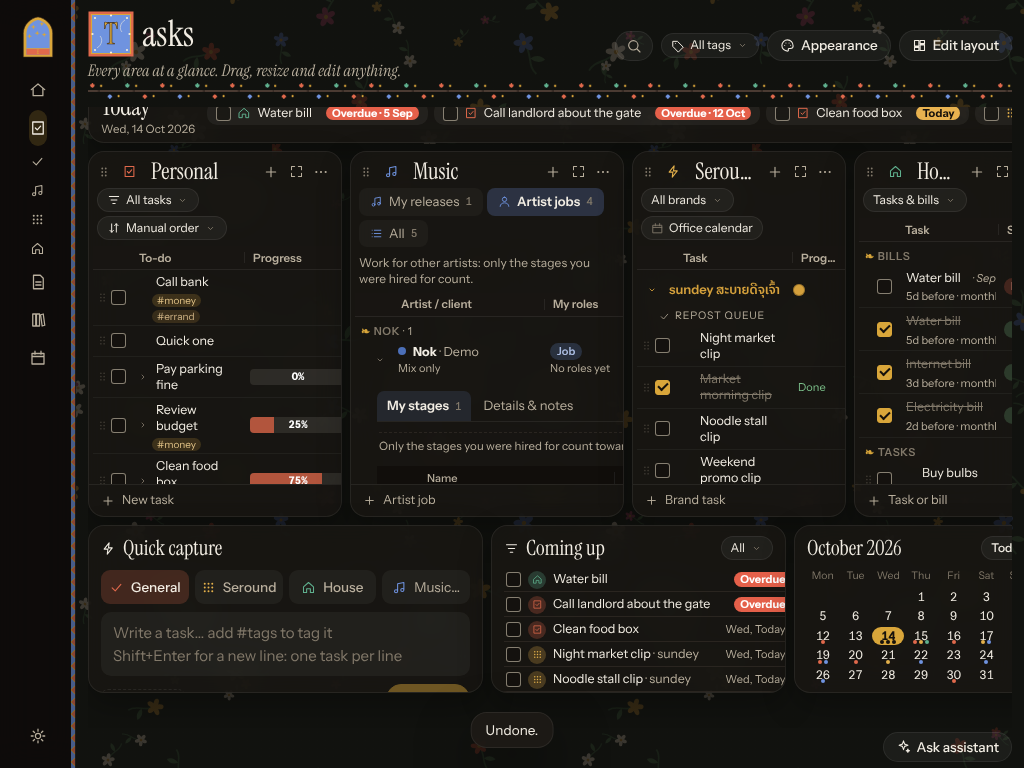
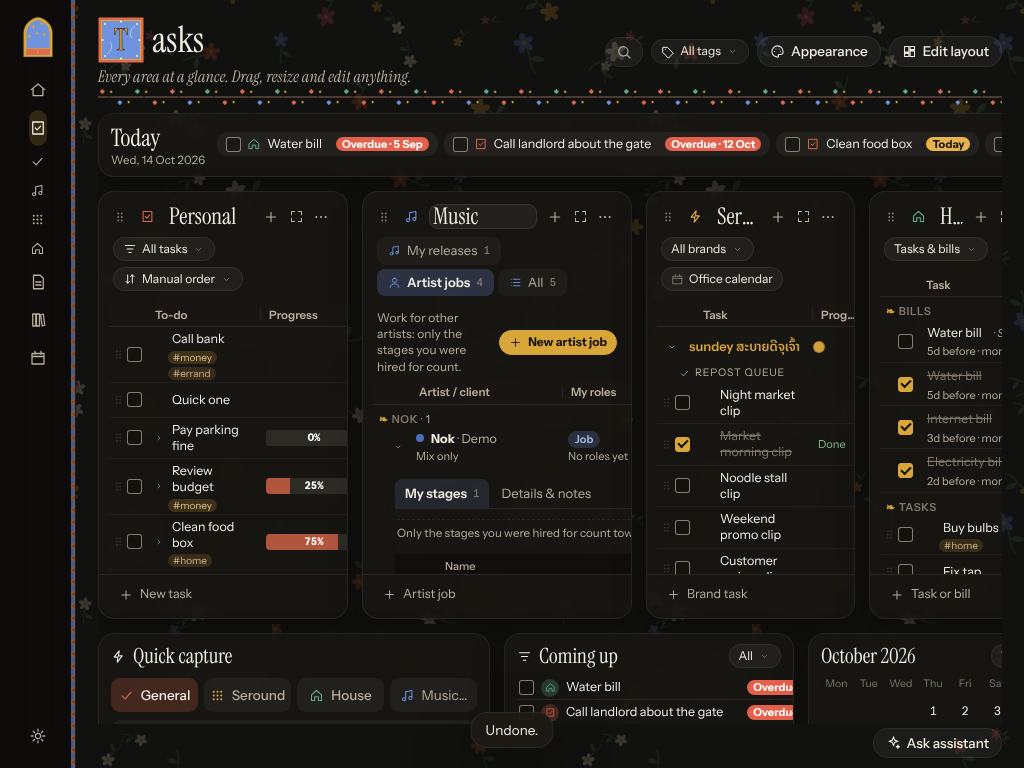
Release dashboard, roomier board, window-style panel resizing
- My releases is now a dashboard of cards: title, countdown to release, the step you're on and its due date, what's next, and a segmented step bar. Click a card to open its steps below; New release button up top.
- Tasks board: wider gaps and more padding inside panels; taller rows.
- Panels resize from any edge or corner with big hit zones (the library's own handle styles were overriding ours).
- Quick capture text matches the rest of the UI.

Claude-Session: https://claude.ai/code/session_016WKLQPuGqaCrfQHNoqNZZi

diff --git a/frankk-app/src/panels/MusicPanel.tsx b/frankk-app/src/panels/MusicPanel.tsx
@@ -8,7 +8,7 @@ import { Modal } from '../components/Modal';
 import { ColumnsMenu } from '../components/ColumnsMenu';
 import { Table, ResizeHandle, nextSort, type SortState } from '../components/TaskTable';
 import { Editable, MiniSelect } from '../components/Editable';
-import { ReleaseStepper } from '../components/Stepper';
+import { ReleaseStepper, mainSteps } from '../components/Stepper';
 import { SortableList } from '../components/SortableList';
 import { useContextMenu } from '../components/ContextMenu';
 import { TagChips, TagPicker } from '../components/Tags';
@@ -17,7 +17,7 @@ import { useUi } from '../ui';
 import { useColumns, type ColDef } from '../hooks/useColumns';
 import { usePersistentState } from '../hooks/usePersistentState';
 import { nextProjectDate, projectProgress, stageComplete, stageUnits } from '../lib/progress';
-import { relLabel } from '../lib/dates';
+import { diffDays, relLabel, shortDate } from '../lib/dates';
 import { PIGMENTS, RELEASE_STEPS, SIDE_STAGES, STAGE_LIBRARY, type MusicProject, type Stage } from '../data/types';
 import { newId } from '../data/fixtures';
 
@@ -108,11 +108,17 @@ export function MusicPanel({ focused }: { focused: boolean }) {
         </div>
       }
       footer={<button className="foot-add" onClick={() => setProjectDialog(newKind)}><Icon name="plus" size={13} /> {tab === 'artist-job' ? 'Artist job' : tab === 'own-release' ? 'Release' : 'Project or artist job'}</button>}>
-      {tab !== 'all' && <p className="music-hint">{TABS.find((t) => t.id === tab)!.hint}</p>}
+      {tab === 'own-release' ? (
+        <ReleaseBoard list={visible.filter((p) => p.kind === 'own-release')} open={open} onToggle={toggle} />
+      ) : (<>
+      <div className="music-bar">
+        <p className="music-hint">{TABS.find((t) => t.id === tab)!.hint}</p>
+        <button className="btn primary small" onClick={() => setProjectDialog(newKind)}><Icon name="plus" size={13} /> {newLabel}</button>
+      </div>
       <Table cols={cols} label="Music projects" sort={prefs.sort} onSort={(col) => setPrefs((p) => ({ ...p, sort: nextSort(p.sort, col) }))}>
         {groups.length === 0 && (
           <div className="empty">
-            {tab === 'artist-job' ? 'No artist jobs yet.' : tab === 'own-release' ? 'No releases yet.' : 'Nothing here yet.'}{' '}
+            {tab === 'artist-job' ? 'No artist jobs yet.' : 'Nothing here yet.'}{' '}
             <button className="link-btn" onClick={() => setProjectDialog(newKind)}>{newLabel}</button>
           </div>
         )}
@@ -123,7 +129,92 @@ export function MusicPanel({ focused }: { focused: boolean }) {
           </div>
         ))}
       </Table>
+      </>)}
     </Panel>
+  );
+}
+
+/* ---------- My releases: a dashboard of what's coming out and where each one stands ---------- */
+
+function ReleaseBoard({ list, open, onToggle }: { list: MusicProject[]; open: Set<string>; onToggle: (id: string) => void }) {
+  const { today } = useStore();
+  const { setProjectDialog } = useUi();
+  const finished = (p: MusicProject) => mainSteps(p).length > 0 && mainSteps(p).every(stageComplete);
+  const byDate = (a: MusicProject, b: MusicProject) => (a.targetRelease ?? '9999').localeCompare(b.targetRelease ?? '9999');
+  const upcoming = list.filter((p) => !finished(p)).sort(byDate);
+  const done = list.filter(finished).sort(byDate);
+  return (
+    <div className="rel-board">
+      <div className="rel-top">
+        <div>
+          <h4>Upcoming releases</h4>
+          <p className="muted">{upcoming.length ? `${upcoming.length} in progress${done.length ? ` · ${done.length} finished` : ''}` : 'Nothing in progress.'}</p>
+        </div>
+        <button className="btn primary" onClick={() => setProjectDialog('own-release')}><Icon name="plus" size={14} /> New release</button>
+      </div>
+      {list.length === 0 && (
+        <button className="rel-empty" onClick={() => setProjectDialog('own-release')}><Icon name="music" size={22} /><b>Start your first release</b><span>Single, EP or album: it gets a step bar from Concept to Art.</span></button>
+      )}
+      <div className="rel-grid">
+        {[...upcoming, ...done].map((p) => <ReleaseCard key={p.id} p={p} today={today} open={open.has(p.id)} onToggle={() => onToggle(p.id)} finished={finished(p)} />)}
+      </div>
+    </div>
+  );
+}
+
+function ReleaseCard({ p, today, open, onToggle, finished }: { p: MusicProject; today: string; open: boolean; onToggle: () => void; finished: boolean }) {
+  const { dispatch } = useStore();
+  const { openNote, say } = useUi();
+  const menu = useContextMenu();
+  const steps = mainSteps(p);
+  const doneN = steps.filter(stageComplete).length;
+  const idx = steps.findIndex((s) => !stageComplete(s));
+  const now = idx >= 0 ? steps[idx] : undefined;
+  const then = idx >= 0 ? steps[idx + 1] : undefined;
+  const days = p.targetRelease ? diffDays(p.targetRelease, today) : undefined;
+  const fmt = RELEASE_TYPES.find((r) => r.id === p.releaseType)?.label ?? 'Release';
+  const late = now?.end && now.end < today;
+  return (
+    <div className="rel-wrap" data-project={p.id}>
+      <article className={`rel-card${open ? ' open' : ''}${finished ? ' finished' : ''}`} style={{ '--row': p.color ?? 'var(--music)' } as React.CSSProperties}
+        onContextMenu={(e) => menu(e, [
+          { label: open ? 'Close' : 'Open', icon: 'chevronR', onClick: onToggle },
+          { label: 'Open in Obsidian', icon: 'external', onClick: () => openNote(p.notePath) },
+          { label: 'Delete release', icon: 'trash', danger: true, sep: true, onClick: () => { dispatch({ type: 'project/remove', projectId: p.id }); say(`Deleted “${p.title}”.`, true); } },
+        ])}>
+        <button className="rel-hit" aria-expanded={open} aria-label={`${open ? 'Close' : 'Open'} ${p.artist} ${p.title}`} onClick={onToggle} />
+        <header className="rel-head">
+          <span className="rel-dot" />
+          <div className="rel-name">
+            <h5>{p.title}</h5>
+            <span>{p.artist} · {fmt}{p.label ? ` · ${p.label}` : ''}</span>
+          </div>
+          <div className="rel-count">
+            {finished ? <b>Done</b> : days === undefined ? <small>No release date</small>
+              : days < 0 ? <><b className="late">{-days}d</b><small>past {shortDate(p.targetRelease!, today)}</small></>
+              : <><b>{days === 0 ? 'Today' : `${days}d`}</b><small>out {shortDate(p.targetRelease!, today)}</small></>}
+          </div>
+        </header>
+        <div className="rel-steps" role="img" aria-label={`Step ${Math.min(doneN + 1, steps.length)} of ${steps.length}`}>
+          {steps.map((s, i) => {
+            const u = stageUnits(s);
+            const fill = stageComplete(s) ? 1 : u.total ? u.done / u.total : 0;
+            return <i key={s.id} title={s.name} className={stageComplete(s) ? 'done' : i === idx ? 'now' : ''}><b style={{ width: `${fill * 100}%` }} /></i>;
+          })}
+        </div>
+        <div className="rel-now">
+          {now ? (
+            <>
+              <span className="rel-label">Now</span><strong>{now.name}</strong>
+              {now.end && <span className={late ? 'late' : 'muted'}>{late ? 'was due' : 'due'} {relLabel(now.end, today)}</span>}
+              <span className="rel-of">{doneN}/{steps.length}</span>
+            </>
+          ) : <span className="muted">All release steps done.</span>}
+        </div>
+        {then && <div className="rel-then"><span className="rel-label">Then</span>{then.name}{then.end && <span className="muted"> · {relLabel(then.end, today)}</span>}</div>}
+      </article>
+      {open && <div className="rel-detail"><ProjectDetail p={p} /></div>}
+    </div>
   );
 }
 

diff --git a/frankk-app/src/styles.css b/frankk-app/src/styles.css
@@ -1232,3 +1232,69 @@ fieldset { border: 1px solid var(--line); border-radius: var(--radius); padding:
 /* Description stretches to fill spare room, so Progress and Date sit at the far right */
 .st-grid { grid-template-columns: 16px 20px 20px var(--st-name, 170px) minmax(var(--st-desc, 260px), 1fr) var(--st-progress, 90px) var(--st-date, 112px); }
 .st-head .st-desc { font-size: inherit; color: inherit; }
+
+/* ── Iteration 13: My releases dashboard ── */
+.music-bar { display: flex; align-items: center; gap: 10px; justify-content: space-between; margin: 2px 4px 6px; }
+.music-bar .music-hint { margin: 0; }
+.rel-board { display: grid; gap: 12px; padding: 4px 4px 8px; }
+.rel-top { display: flex; align-items: center; justify-content: space-between; gap: 12px; }
+.rel-top h4 { font: 500 22px/1.1 var(--font-display); margin: 0; }
+.rel-top p { margin: 2px 0 0; font-size: 12.5px; }
+.rel-grid { display: grid; grid-template-columns: repeat(auto-fill, minmax(300px, 1fr)); gap: 10px; align-items: start; }
+.rel-wrap { display: contents; }
+.rel-detail { grid-column: 1 / -1; border-radius: 12px; padding: 4px 12px 10px; background: color-mix(in srgb, var(--text) 3%, transparent); }
+.rel-card { position: relative; display: grid; gap: 10px; padding: 14px 16px; border-radius: 12px; cursor: pointer;
+  background: color-mix(in srgb, var(--row) 9%, color-mix(in srgb, var(--text) 4%, transparent)); transition: background .12s; }
+.rel-card:hover { background: color-mix(in srgb, var(--row) 15%, color-mix(in srgb, var(--text) 5%, transparent)); }
+.rel-card.open { background: color-mix(in srgb, var(--row) 20%, color-mix(in srgb, var(--text) 5%, transparent)); }
+.rel-card.finished { opacity: .7; }
+.rel-hit { position: absolute; inset: 0; border-radius: inherit; z-index: 1; }
+.rel-hit:focus-visible { outline: 2px solid color-mix(in srgb, var(--text) 40%, transparent); outline-offset: 2px; }
+.rel-head { display: flex; align-items: flex-start; gap: 10px; }
+.rel-dot { width: 10px; height: 10px; border-radius: 50%; background: var(--row); margin-top: 9px; flex: none; }
+.rel-name { flex: 1; min-width: 0; }
+.rel-name h5 { margin: 0; font: 500 24px/1.1 var(--font-display); white-space: nowrap; overflow: hidden; text-overflow: ellipsis; }
+.rel-name span { font-size: 12.5px; color: var(--muted); }
+.rel-count { display: grid; justify-items: end; line-height: 1.1; flex: none; }
+.rel-count b { font: 600 22px var(--font-body); font-variant-numeric: tabular-nums; }
+.rel-count small { font-size: 11.5px; color: var(--muted); }
+.rel-count .late, .rel-now .late { color: #e0705a; }
+.rel-steps { display: flex; gap: 4px; }
+.rel-steps i { flex: 1; height: 8px; border-radius: 4px; background: color-mix(in srgb, var(--text) 10%, transparent); overflow: hidden; }
+.rel-steps i b { display: block; height: 100%; background: var(--row); opacity: .55; }
+.rel-steps i.done b { opacity: 1; }
+.rel-steps i.now { box-shadow: none; background: color-mix(in srgb, var(--row) 22%, transparent); }
+.rel-now, .rel-then { display: flex; align-items: baseline; gap: 8px; font-size: 13px; min-width: 0; }
+.rel-now strong { font-size: 15px; }
+.rel-then { color: var(--muted); font-size: 12.5px; }
+.rel-label { font-size: 10.5px; letter-spacing: .08em; text-transform: uppercase; color: var(--faint); width: 34px; flex: none; }
+.rel-of { margin-left: auto; font-size: 12px; color: var(--muted); font-variant-numeric: tabular-nums; }
+.rel-empty { display: grid; justify-items: center; gap: 4px; padding: 28px; border-radius: 12px; color: var(--muted); background: color-mix(in srgb, var(--text) 4%, transparent); }
+.rel-empty b { color: var(--text); font-size: 15px; }
+.rel-empty:hover { background: color-mix(in srgb, var(--text) 7%, transparent); }
+[data-style='medieval'] :is(.rel-card, .rel-detail, .rel-empty) { border-radius: 0; }
+
+/* ── Iteration 14: roomier Tasks board, window-style resizing, quieter capture text ── */
+.home { padding: 16px 22px 8px; }
+:is([data-style='gilded'], [data-style='modern']) .panel-head { padding: 12px 14px 6px 12px; gap: 6px; }
+:is([data-style='gilded'], [data-style='modern']) .panel-toolbar { padding: 2px 14px 10px; gap: 6px; }
+:is([data-style='gilded'], [data-style='modern']) .panel-body { padding: 2px 10px 8px; }
+:is([data-style='gilded'], [data-style='modern']) .panel-foot { padding: 6px 14px 10px; }
+:is([data-style='gilded'], [data-style='modern']) .trow:not(.thead) { min-height: 34px; }
+
+/* Resize from any edge or corner, like a window. Hit zones straddle the edge; nothing is drawn until you drag. */
+.react-grid-item > .react-resizable-handle { position: absolute !important; margin: 0 !important; transform: none !important; background: none !important; z-index: 7 !important; }
+.react-grid-item > .react-resizable-handle-n, .react-grid-item > .react-resizable-handle-s { left: 16px !important; right: 16px !important; width: auto !important; height: 12px !important; cursor: ns-resize !important; }
+.react-grid-item > .react-resizable-handle-n { top: -7px !important; bottom: auto !important; } .react-grid-item > .react-resizable-handle-s { bottom: -7px !important; top: auto !important; }
+.react-grid-item > .react-resizable-handle-e, .react-grid-item > .react-resizable-handle-w { top: 16px !important; bottom: 16px !important; height: auto !important; width: 12px !important; cursor: ew-resize !important; }
+.react-grid-item > .react-resizable-handle-e { right: -7px !important; left: auto !important; } .react-grid-item > .react-resizable-handle-w { left: -7px !important; right: auto !important; }
+.react-grid-item > :is(.react-resizable-handle-ne, .react-resizable-handle-nw, .react-resizable-handle-se, .react-resizable-handle-sw) { width: 22px !important; height: 22px !important; }
+.react-grid-item > .react-resizable-handle-ne { top: -7px !important; right: -7px !important; left: auto !important; bottom: auto !important; cursor: nesw-resize !important; }
+.react-grid-item > .react-resizable-handle-nw { top: -7px !important; left: -7px !important; right: auto !important; bottom: auto !important; cursor: nwse-resize !important; }
+.react-grid-item > .react-resizable-handle-se { bottom: -7px !important; right: -7px !important; left: auto !important; top: auto !important; cursor: nwse-resize !important; }
+.react-grid-item > .react-resizable-handle-sw { bottom: -7px !important; left: -7px !important; right: auto !important; top: auto !important; cursor: nesw-resize !important; }
+.react-grid-item.resizing { z-index: 20; }
+.react-grid-placeholder { background: color-mix(in srgb, var(--text) 10%, transparent) !important; border-radius: 12px; opacity: 1 !important; }
+body:has(.react-grid-item.resizing) { user-select: none; }
+
+.qc-write textarea { font: 400 13.5px/1.5 var(--font-body); padding: 8px 10px; }

diff --git a/frankk-app/src/App.tsx b/frankk-app/src/App.tsx
@@ -171,7 +171,7 @@ function TasksBoard({ theme, setTheme }: { theme: ThemePrefs; setTheme: (t: Them
             {(close) => (
               <div className="pop-form">
                 <strong>Layout</strong>
-                <p className="menu-note">Drag a panel’s dotted grip to move it. Drag an edge or corner to resize it.</p>
+                <p className="menu-note">Drag a panel’s dotted grip to move it. Drag any edge or corner to resize it, like a window.</p>
                 {WIDGETS.filter((w) => w.secondary).map((w) => (
                   <label key={w.id} className="menu-check"><input type="checkbox" checked={!saved.hidden.includes(w.id)} onChange={() => toggleWidget(w.id)} />{w.label}</label>
                 ))}
@@ -193,7 +193,7 @@ function TasksBoard({ theme, setTheme }: { theme: ThemePrefs; setTheme: (t: Them
                 layout={visible}
                 gridConfig={{ cols: COLS, rowHeight, margin: MARGIN, containerPadding: [0, 0] }}
                 dragConfig={{ enabled: !touch, handle: '.panel-grip', cancel: 'input,select,textarea,button,a,.no-drag' }}
-                resizeConfig={{ enabled: true, handles: ['e', 'w', 's', 'se', 'sw'] }}
+                resizeConfig={{ enabled: true, handles: ['n', 'e', 's', 'w', 'ne', 'nw', 'se', 'sw'] }}
                 compactor={dragging ? floatingCompactor : verticalCompactor}
                 onDragStart={() => { before.current = visible.map((l) => ({ ...l })); setDragging(true); }}
                 onDragStop={(_l, _old, item) => {

diff --git a/frankk-app/src/pages/HomePage.tsx b/frankk-app/src/pages/HomePage.tsx
@@ -59,7 +59,7 @@ export function HomePage({ theme, setTheme }: { theme: ThemePrefs; setTheme: (t:
           <ReactGridLayout width={width} layout={dash.layout.filter((l) => dash.widgets.some((w) => w.id === l.i))}
             gridConfig={{ cols: 24, rowHeight: 30, margin: [12, 12], containerPadding: [0, 0] }}
             dragConfig={{ enabled: editing, handle: '.w-grip', cancel: 'input,select,textarea,button,a,.no-drag' }}
-            resizeConfig={{ enabled: editing, handles: ['e', 'w', 's', 'se', 'sw'] }}
+            resizeConfig={{ enabled: editing, handles: ['n', 'e', 's', 'w', 'ne', 'nw', 'se', 'sw'] }}
             compactor={verticalCompactor} onLayoutChange={onLayout}>
             {dash.widgets.map((w) => (
               <div key={w.id} className={`wcard kind-${w.kind}${editing ? ' editing' : ''}`} style={{ '--wc': w.color ?? 'var(--accent)' } as React.CSSProperties} data-widget={w.id}>

diff --git a/frankk-app/src/layout.ts b/frankk-app/src/layout.ts
@@ -1,7 +1,7 @@
 import type { LayoutItem } from 'react-grid-layout';
 
 export const COLS = 48;
-export const MARGIN: [number, number] = [8, 8];
+export const MARGIN: [number, number] = [14, 14];
 /** Below this container width the board keeps its proportions and scrolls sideways instead of squashing text. */
 export const MIN_BOARD_WIDTH = 960;
 /** Rows in the default layout; the row height is sized so these fill the window. */
